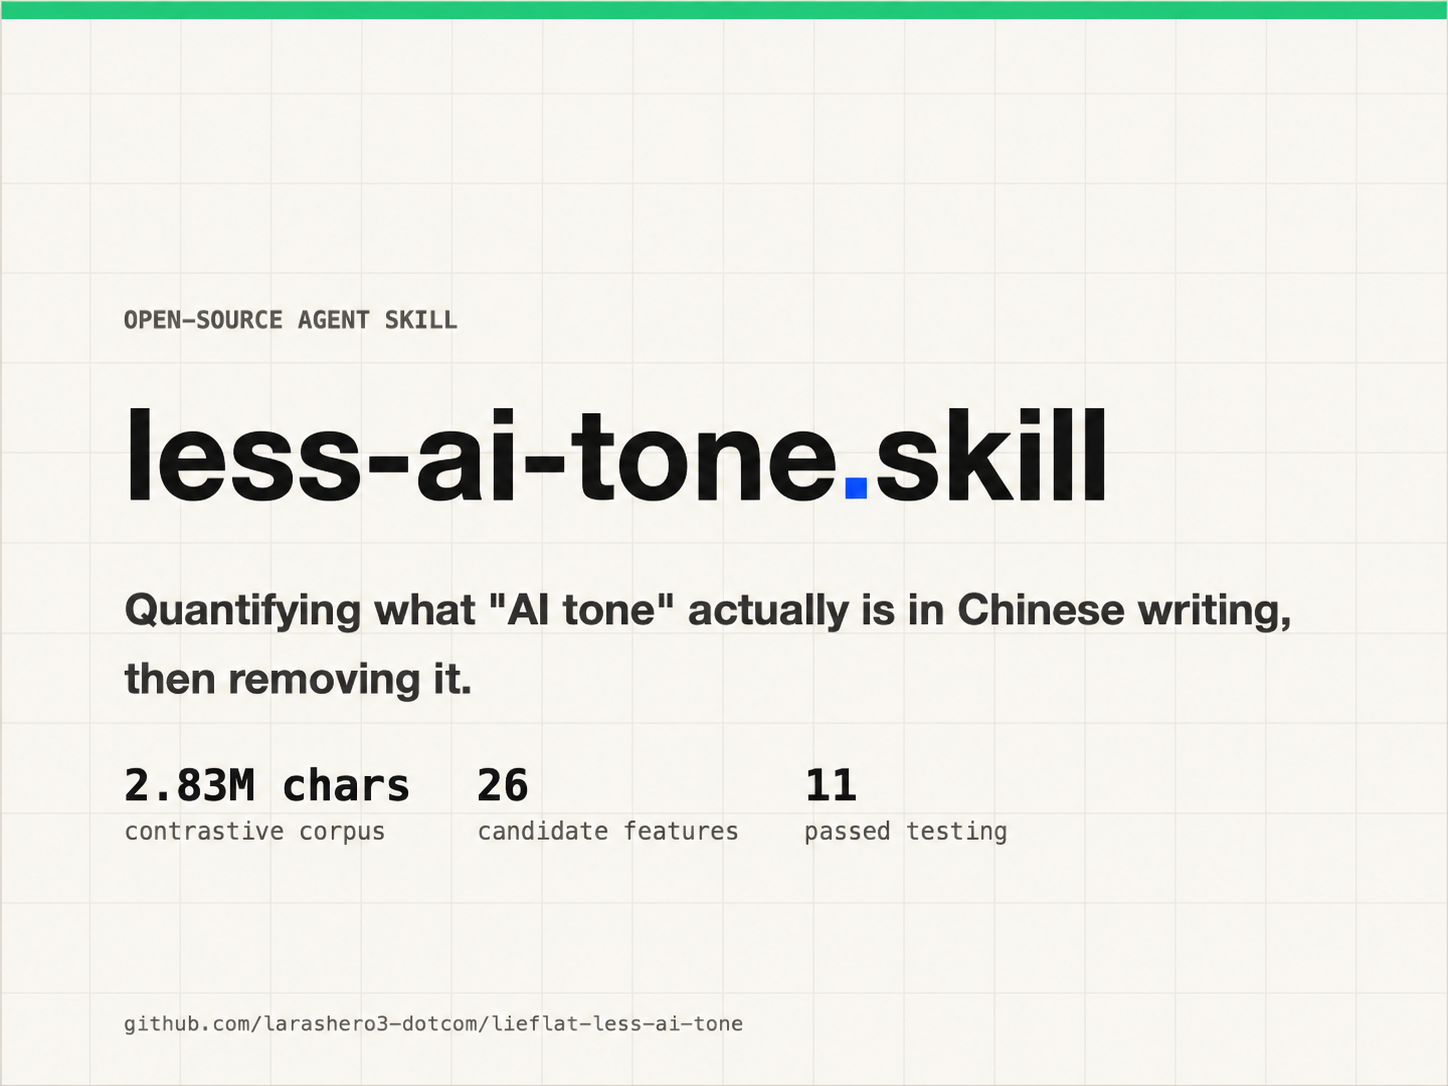
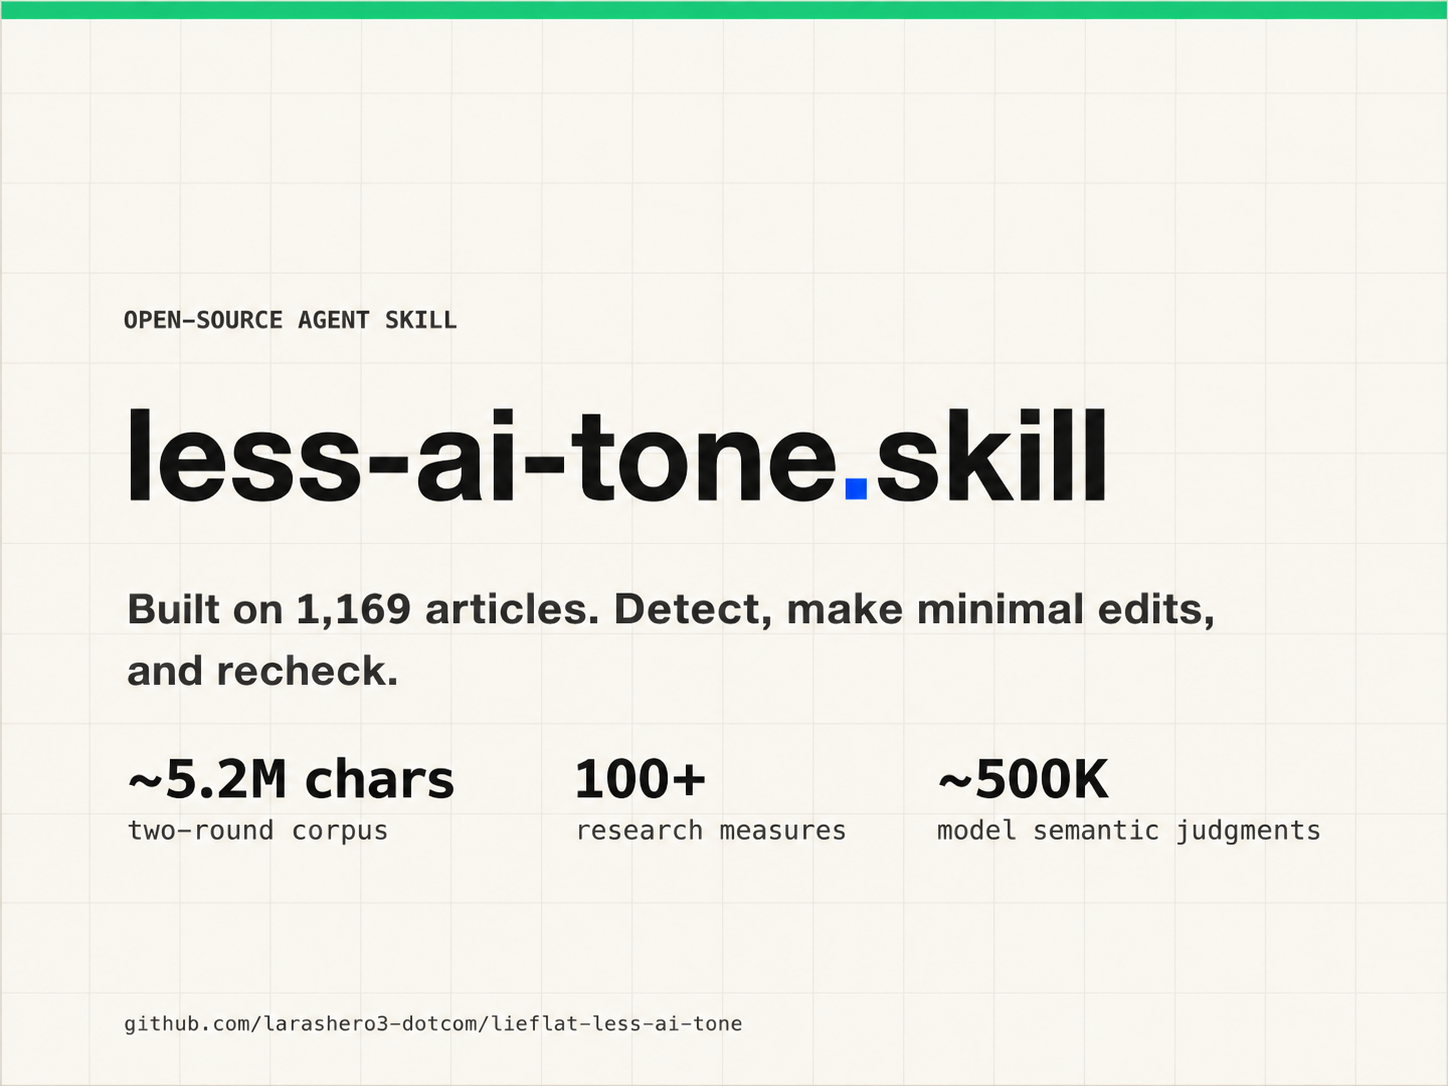
docs: update cover figures to the current two-round study

diff --git a/README.en.md b/README.en.md
@@ -2,9 +2,7 @@
 
 [中文](README.md) | English
 
-![Lieflat Less AI Tone: first-round research cover](assets/less-ai-tone-hero-en.png)
-
-<sub>The cover shows first-round figures. The latest two-round results are detailed below.</sub>
+![Lieflat Less AI Tone: 5.2M characters, 100+ measures, approximately 500K model semantic judgments](assets/less-ai-tone-hero-en.png)
 
 **A post-draft Chinese writing skill built from two rounds of comparison: 629 articles in the first round, 270 matched pairs in the second, about 5.2 million Chinese characters in total, and about 500,000 model semantic judgments.** It reports what it found, cites passages from your draft, and proposes specific edits. It rewrites only after you respond, then runs a second check and shows the changes.
 

diff --git a/README.md b/README.md
@@ -2,9 +2,7 @@
 
 中文 | [English](README.en.md)
 
-![去 AI 味 Skill：第一轮研究封面](assets/less-ai-tone-hero-zh.png)
-
-<sub>封面数据来自第一轮研究；最新两轮研究结果见下文。</sub>
+![去 AI 味 Skill：约 520 万字、100+ 项指标、约 50 万次模型语义判断](assets/less-ai-tone-hero-zh.png)
 
 **一个基于两轮实测语料（共 1,169 篇、约 520 万汉字、100+ 项指标、约 50 万次模型语义判断）的去 AI 味 skill：先交付有指标、研究参照、原文例句和改法的检测报告，用户回复后再改写和复测。**
 
